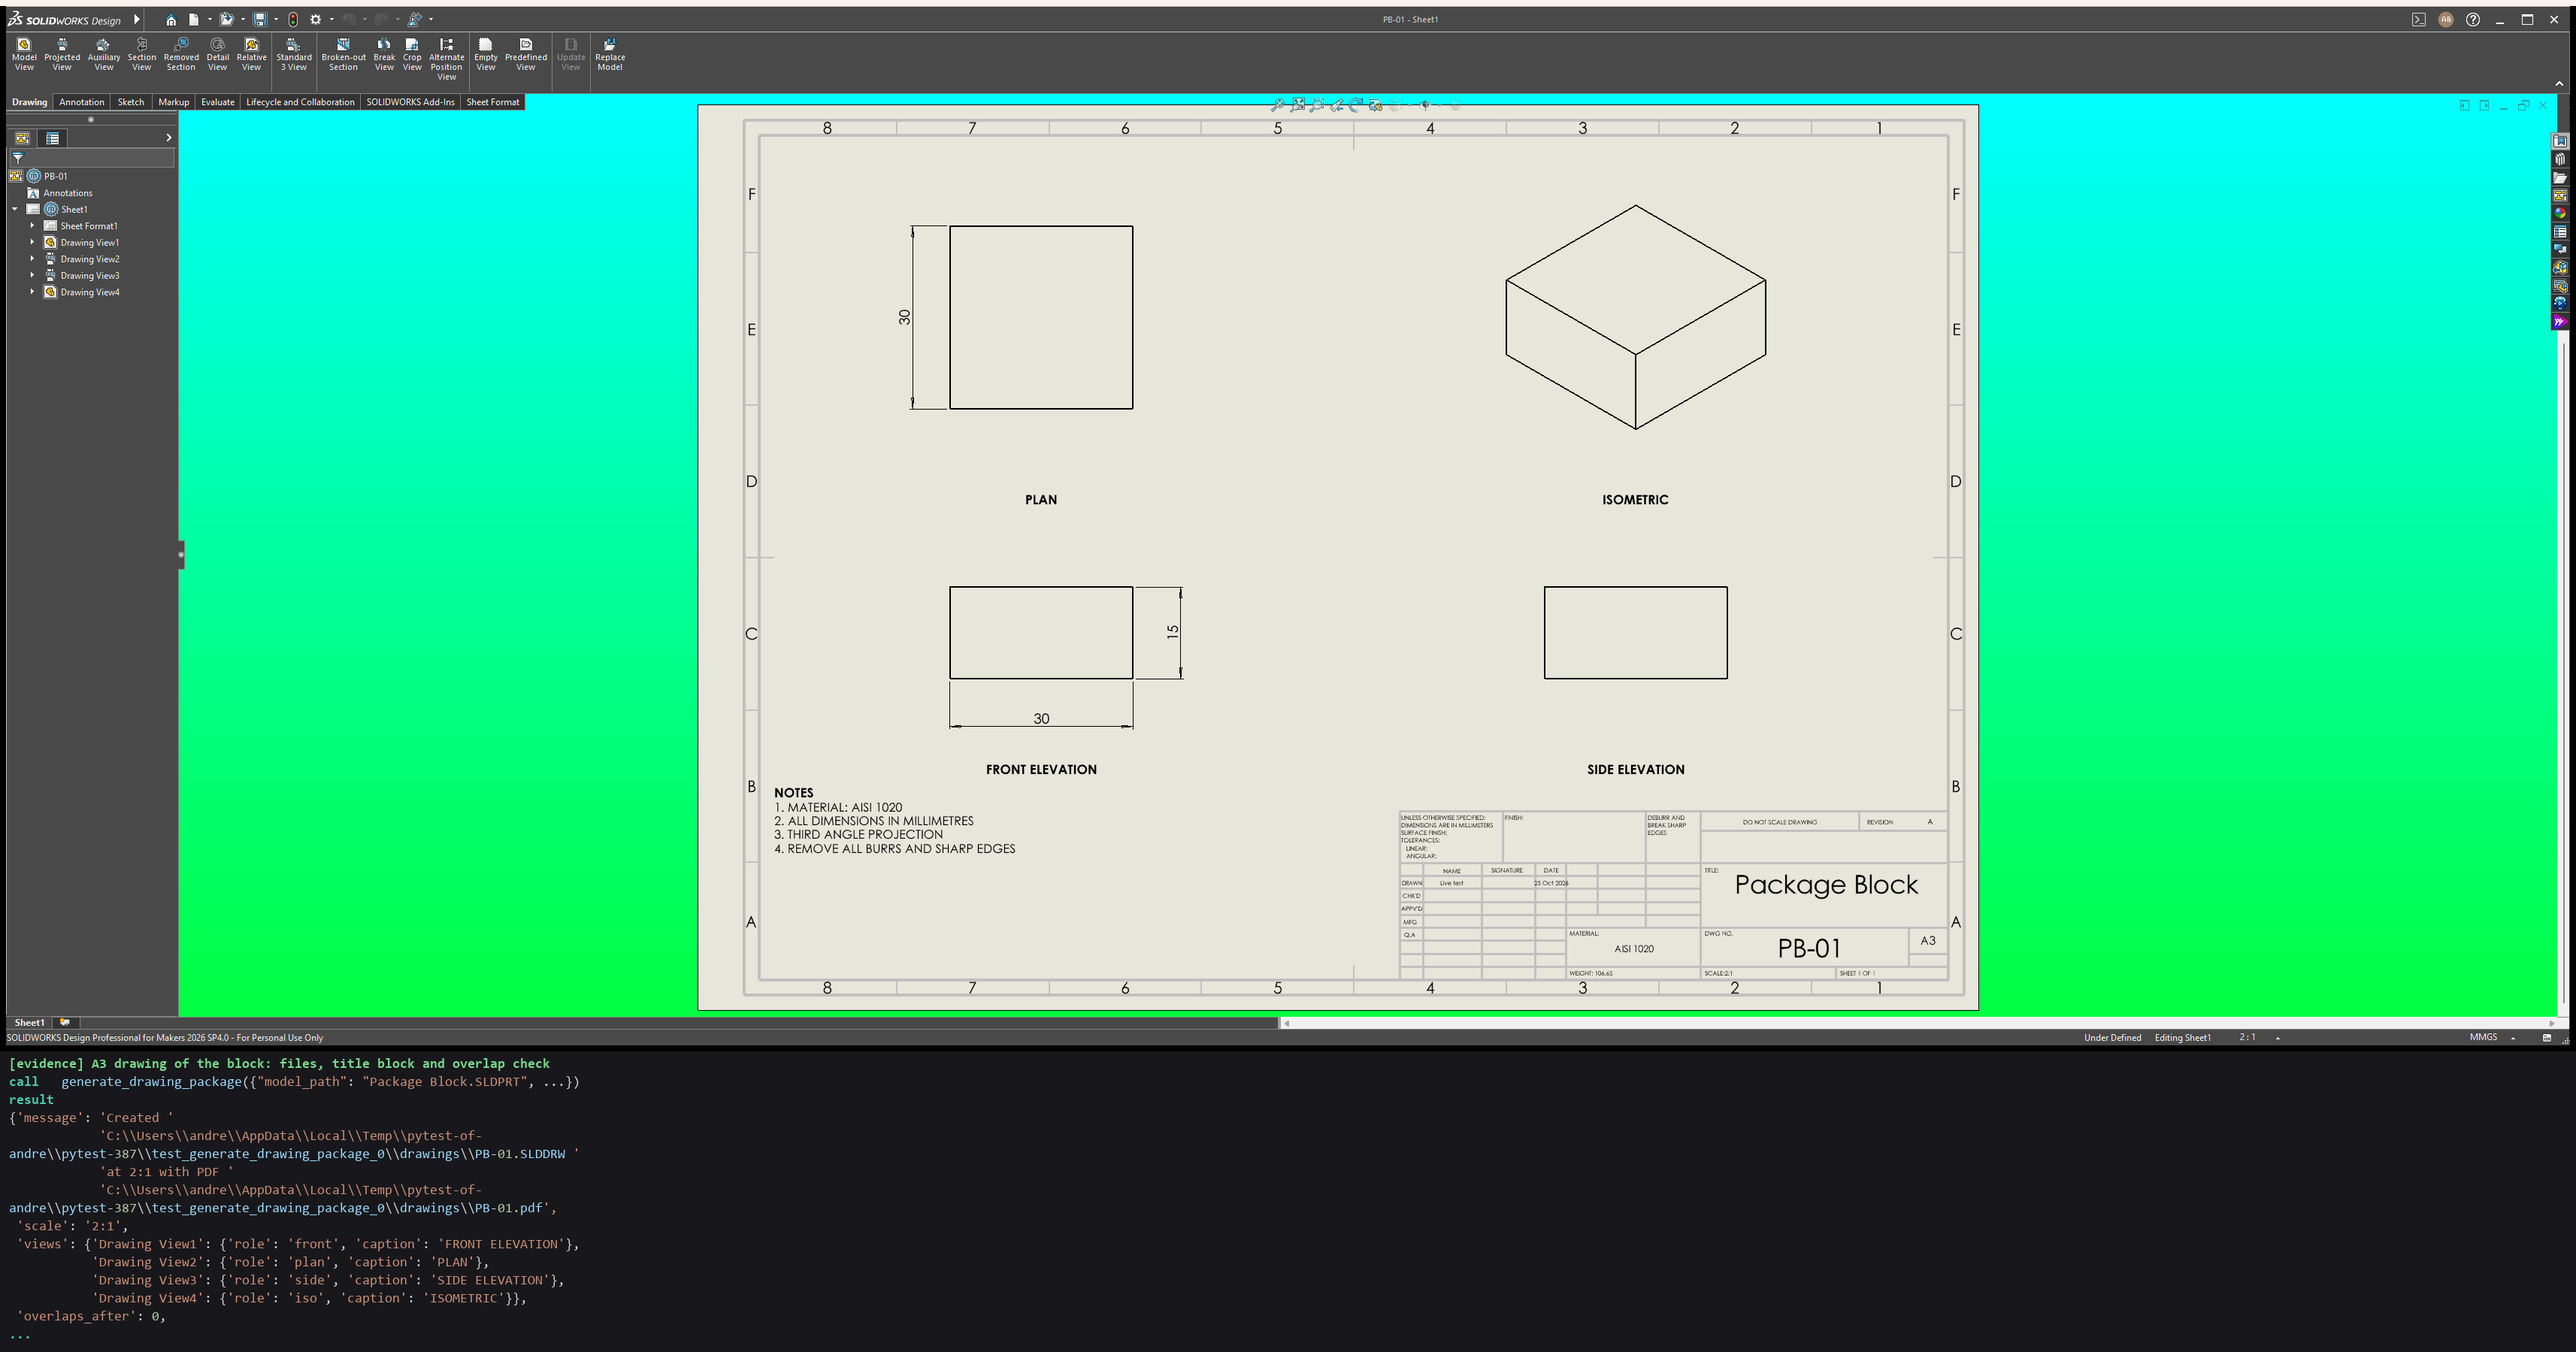
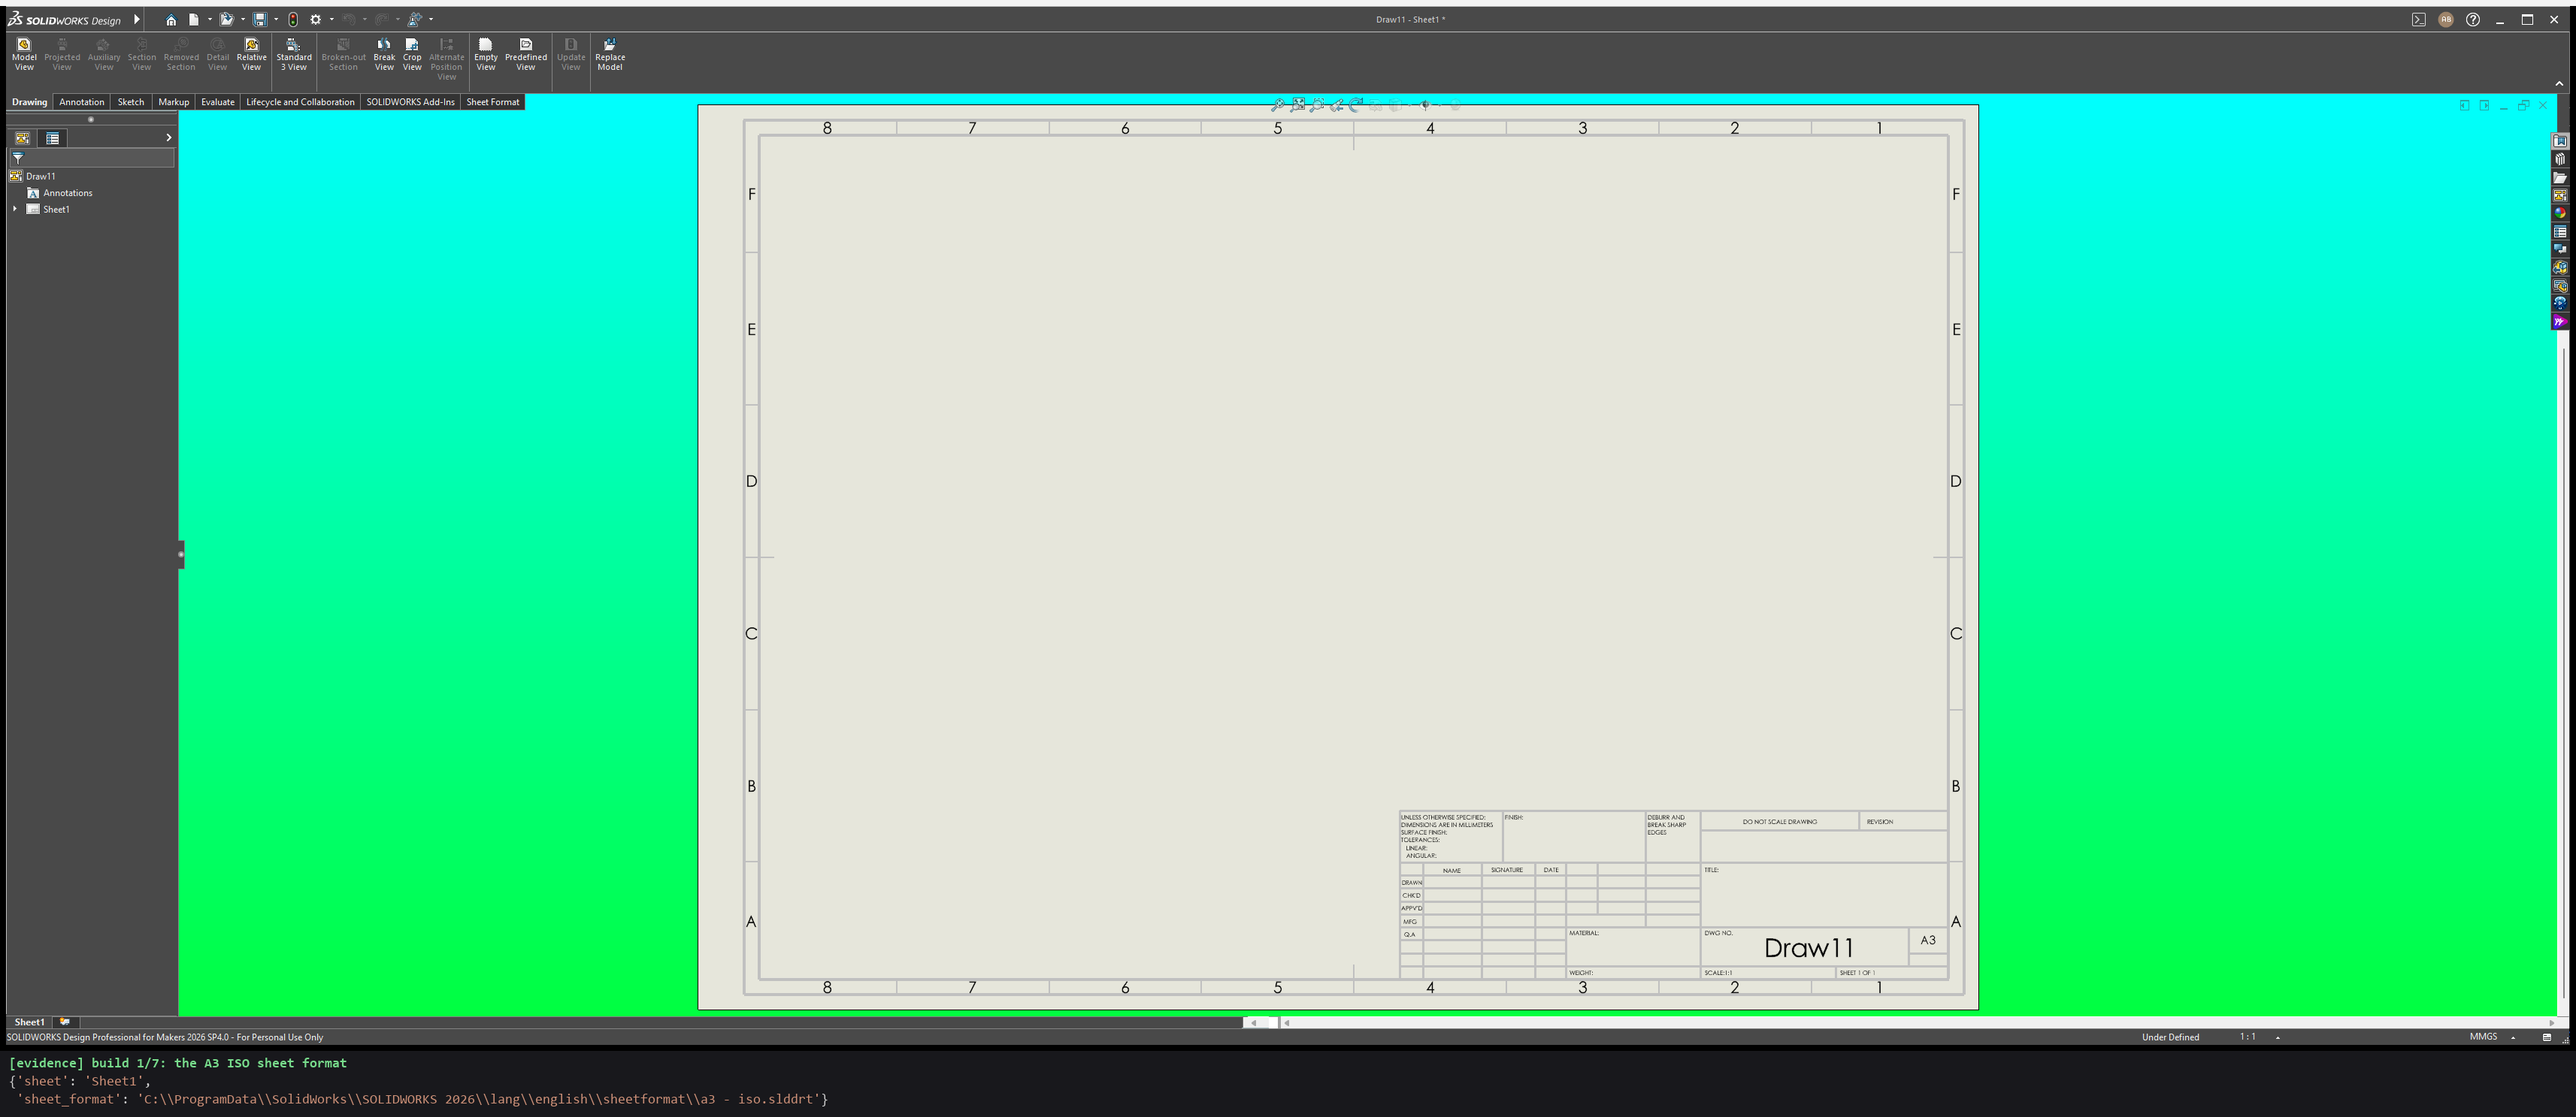
test(live): show each build step of generate_drawing_package in the demo
The generator's live test wraps the adapter's _handle_com_operation, and
after each of the seven build steps shows that step's result as evidence: a
pause, and a frame when capturing. The demo GIF now shows the drawing
filling in, from the blank A3 sheet to the filled title block. The tool
call itself is unchanged.

diff --git a/tests/live/test_live_sw_drawing_package_tools.py b/tests/live/test_live_sw_drawing_package_tools.py
@@ -4,7 +4,9 @@ Each test calls the registered MCP tool and checks what SolidWorks reports
 afterwards: the sheet's scale and the views' real size for ``set_sheet_scale``,
 the BOM table's own cells for ``insert_bom_table``, and the files, title-block
 properties and read-back overlap check for ``generate_drawing_package``.
-Every test also proves one failure case.
+Every test also proves one failure case. In a demo, the generator's test also
+holds SolidWorks on each build step (sheet, views, layout, dimensions, notes,
+check, title block), so the drawing can be seen filling in.
 
 Collected only with ``SOLIDWORKS_MCP_RUN_REAL_INTEGRATION=1`` on Windows (see
 ``tests/live/conftest.py``).
@@ -41,6 +43,39 @@ async def _saved_block(scratch, path: Path, depth_mm: float = 15.0) -> str:  # n
     assert saved.is_success, saved.error
     scratch.written_files.append(str(path))
     return str(path)
+
+
+#: What each of the generator's COM steps adds to the sheet.
+_BUILD_STEPS = {
+    "standard_drawing_sheet": "build 1/7: the A3 ISO sheet format",
+    "standard_drawing_views": "build 2/7: third-angle views and an isometric",
+    "standard_drawing_layout": "build 3/7: scale chosen, views centred in cells",
+    "standard_drawing_dimensions": "build 4/7: model dimensions, laid out",
+    "standard_drawing_notes": "build 5/7: view captions and the NOTES block",
+    "standard_drawing_check": "build 6/7: overlap check on the real geometry",
+    "standard_drawing_title_block": "build 7/7: title block filled and fitted",
+}
+
+
+def _show_each_build_step(adapter: Any, monkeypatch: pytest.MonkeyPatch) -> None:
+    """Hold SolidWorks on the drawing after each of the generator's COM steps.
+
+    Wraps the adapter's ``_handle_com_operation``: each build step runs as
+    before, then its result is shown as evidence (a pause, and a frame when
+    capturing). Nothing about the call itself changes.
+    """
+    original = adapter._handle_com_operation
+
+    def watched(name: str, operation: Any, *args: Any) -> Any:
+        result = original(name, operation, *args)
+        if name in _BUILD_STEPS:
+            evidence(
+                _BUILD_STEPS[name],
+                result.data if result.is_success else {"error": result.error},
+            )
+        return result
+
+    monkeypatch.setattr(adapter, "_handle_com_operation", watched)
 
 
 def _view_widths(adapter: Any) -> dict[str, float]:
@@ -196,7 +231,7 @@ async def test_insert_bom_table_on_a_part_view(scratch, tmp_path):
 
 
 @pytest.mark.asyncio
-async def test_generate_drawing_package_on_a_block(scratch, tmp_path):
+async def test_generate_drawing_package_on_a_block(scratch, tmp_path, monkeypatch):
     """30x30x15 mm block: drawing and PDF written, material and mass shown, no overlaps."""
     adapter = scratch.adapter
     await _block(adapter)
@@ -206,6 +241,7 @@ async def test_generate_drawing_package_on_a_block(scratch, tmp_path):
     scratch.written_files.append(part)
     out = tmp_path / "drawings"
     tools = await _drawing_tools(adapter)
+    _show_each_build_step(adapter, monkeypatch)
 
     result = await tools["generate_drawing_package"](
         {
